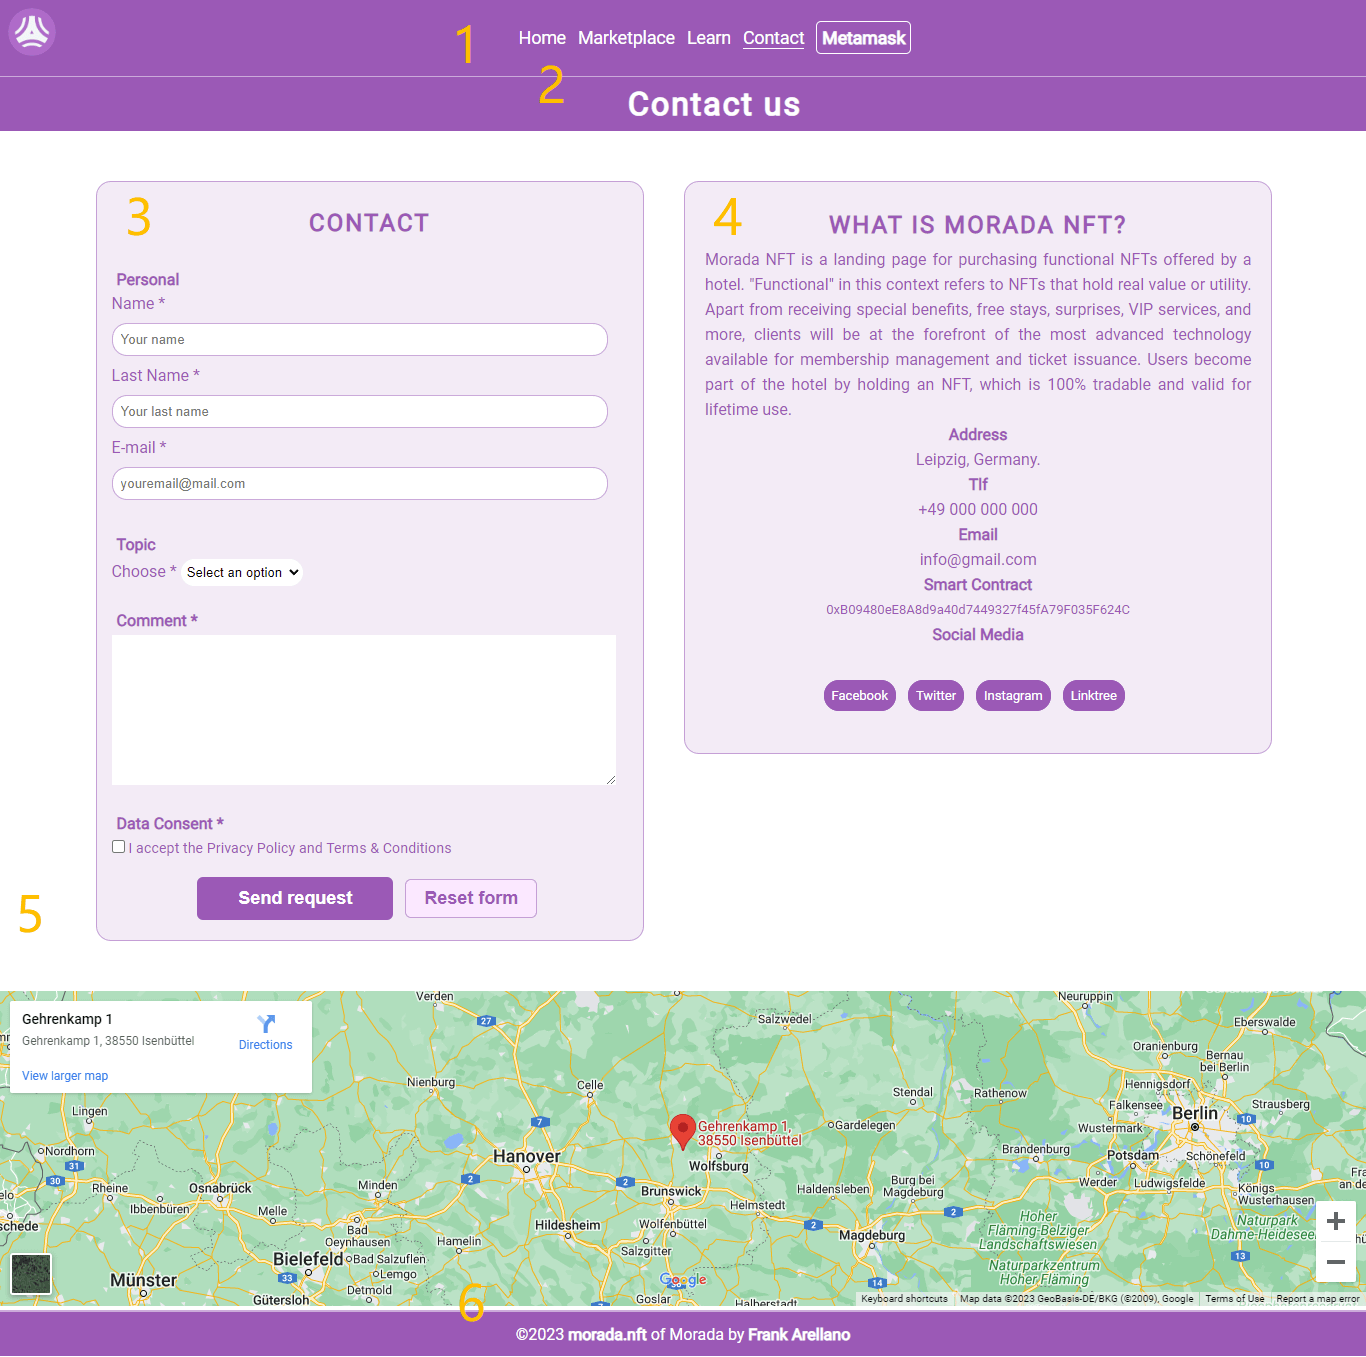
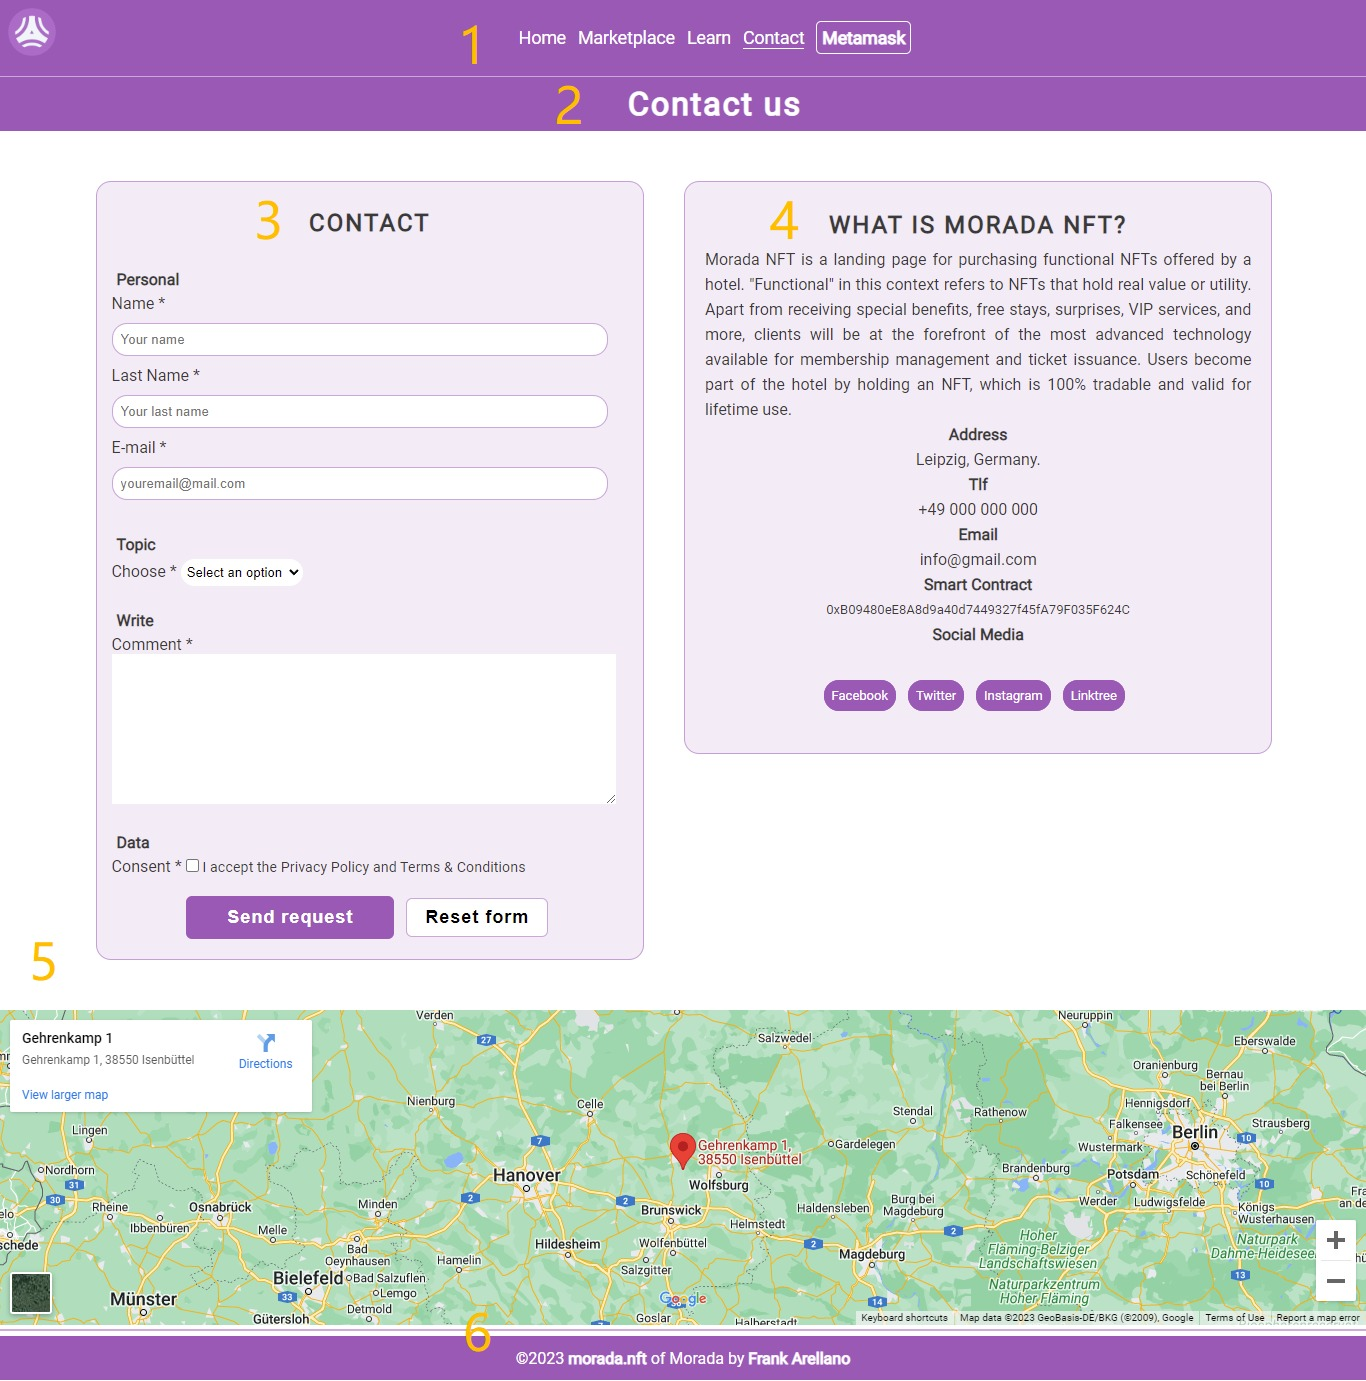
docs: contact.webp improve

diff --git a/contact.html b/contact.html
@@ -36,11 +36,11 @@
     <!-- Start of Contact Form-->
     <div class="height">
         <a href="contact.html">
-            <h1 class="page-title background call-action-start padding-bottom">Contact us</h1>
+            <h1 class="page-title background padding-bottom">Contact us</h1>
         </a>
 
         <section class="contact">
-            <h2 class="base-color call-action-start padding-title">Contact</h2>
+            <h2 class="padding-title text-black">Contact</h2>
             <form action="https://formdump.codeinstitute.net/" method="POST">
                 <!-- Personal Data-->
                 <fieldset>
@@ -94,8 +94,8 @@
 
                 <!-- Form submit/reset buttons-->
                 <div class="text-center">
-                    <input class="claim bkg-white base-color" type="submit" value="Send request">
-                    <input class="learn bkg-white base-color" type="reset" value="Reset form">
+                    <input class="claim bkg-white" type="submit" value="Send request">
+                    <input class="learn bkg-white" type="reset" value="Reset form">
                 </div>
             </form>
         </section>
@@ -104,7 +104,7 @@
         <!-- Start of About us-->
         <aside class="aside contact">
             <div>
-                <h2 class="text-center base-color">What is Morada NFT?</h2>
+                <h2 class="text-center text-black">What is Morada NFT?</h2>
                 <p class="text-justify">Morada NFT is a landing page for purchasing functional NFTs offered by a hotel.
                     "Functional" in this context refers to NFTs that hold real value or utility. Apart from receiving
                     special benefits, free stays, surprises, VIP services, and more, clients will be at the forefront of

diff --git a/index.htm b/index.htm
@@ -58,7 +58,7 @@
 
     <!-- Start of Card-based layout 1 BASIC-->
     <section class="card-based-container" aria-label="Basic NFTs display">
-        <h2 class="page-title background call-action-start">Basic</h2>
+        <h2 class="page-title background">Basic</h2>
 
         <div class="nft-basic">
             <div class="center-info-nft info-nft">
@@ -69,7 +69,7 @@
                     <p>- <b>5 days</b> free stay</p>
                     <p>- World-wide</p>
                 </div>
-                <a class="claim-nft bkg-white base-color" href="marketplace.html">Claim</a>
+                <a class="claim-nft bkg-white <script src="https://cdn.jsdelivr.net/npm/web3@1.5.2/dist/web3.min.js"></script>" href="marketplace.html">Claim</a>
             </div>
         </div>
 

diff --git a/marketplace.html b/marketplace.html
@@ -35,7 +35,7 @@
     <!-- Start of content section-->
     <section style="text-align:center" aria-label="section to learn about Morada's Marketplace and a bit of NFTs">
         <a href="marketplace.html">
-            <h1 class="page-title background call-action-start padding-bottom">Marketplace</h1>
+            <h1 class="page-title background padding-bottom">Marketplace</h1>
         </a>
 
         <div class="learn-nft">

diff --git a/learn.html b/learn.html
@@ -35,7 +35,7 @@
     <!-- Start of content section-->
     <section style="text-align:center" aria-label="section to learn about NFTs, Blockchain and Morada NFTs">
         <a href="learn.html">
-            <h1 class="page-title background call-action-start padding-bottom">Learn</h1>
+            <h1 class="page-title background padding-bottom">Learn</h1>
         </a>
 
         <div class="learn-nft">

diff --git a/assets/css/style.css b/assets/css/style.css
@@ -374,6 +374,10 @@ iframe {
     left: 16vw;
 }
 
+.text-black {
+    color: #3a3a3a;
+}
+
 .padding-title {
     margin-top: 18px;
 }
@@ -448,7 +452,7 @@ textarea {
 }
 
 .acceptdata {
-    color: #9B59B6;
+    color: inherit;
     font-size: 0.9rem;
     transition: 0.3s;
 }
